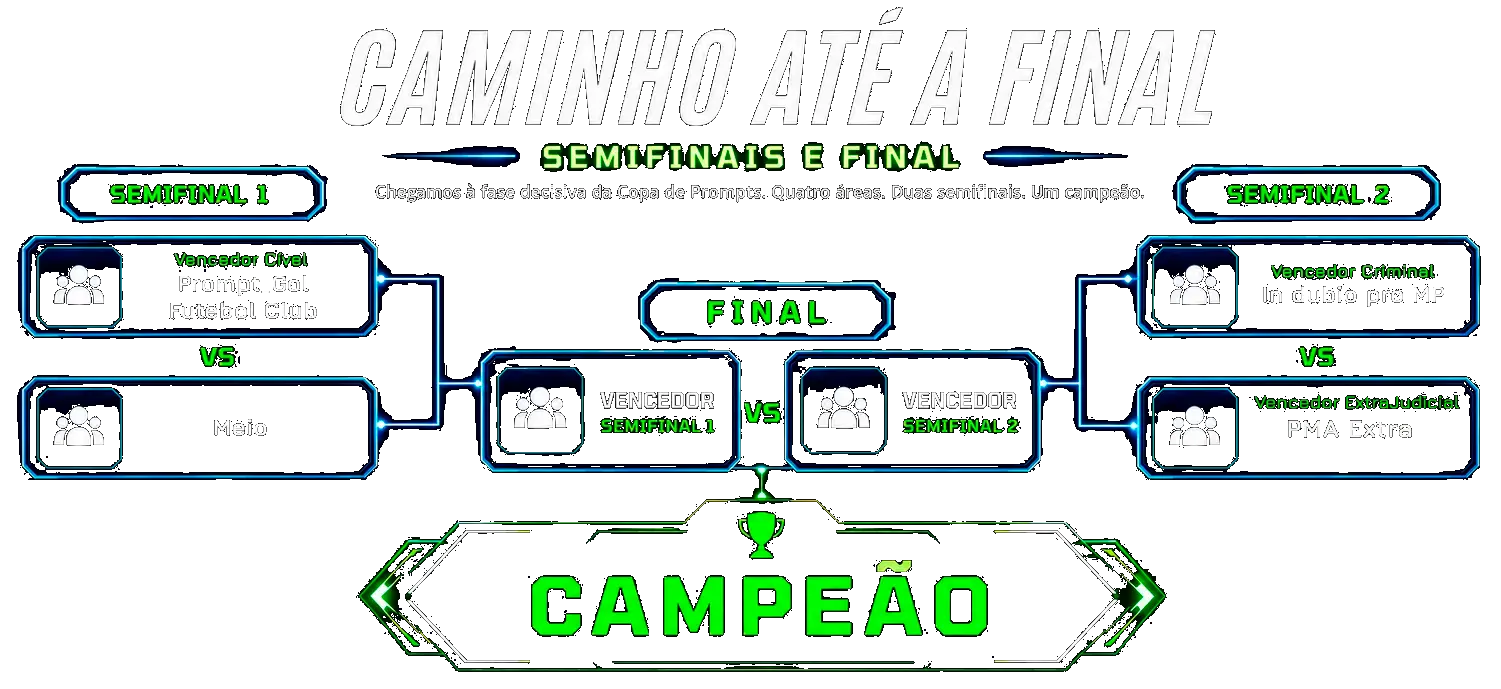
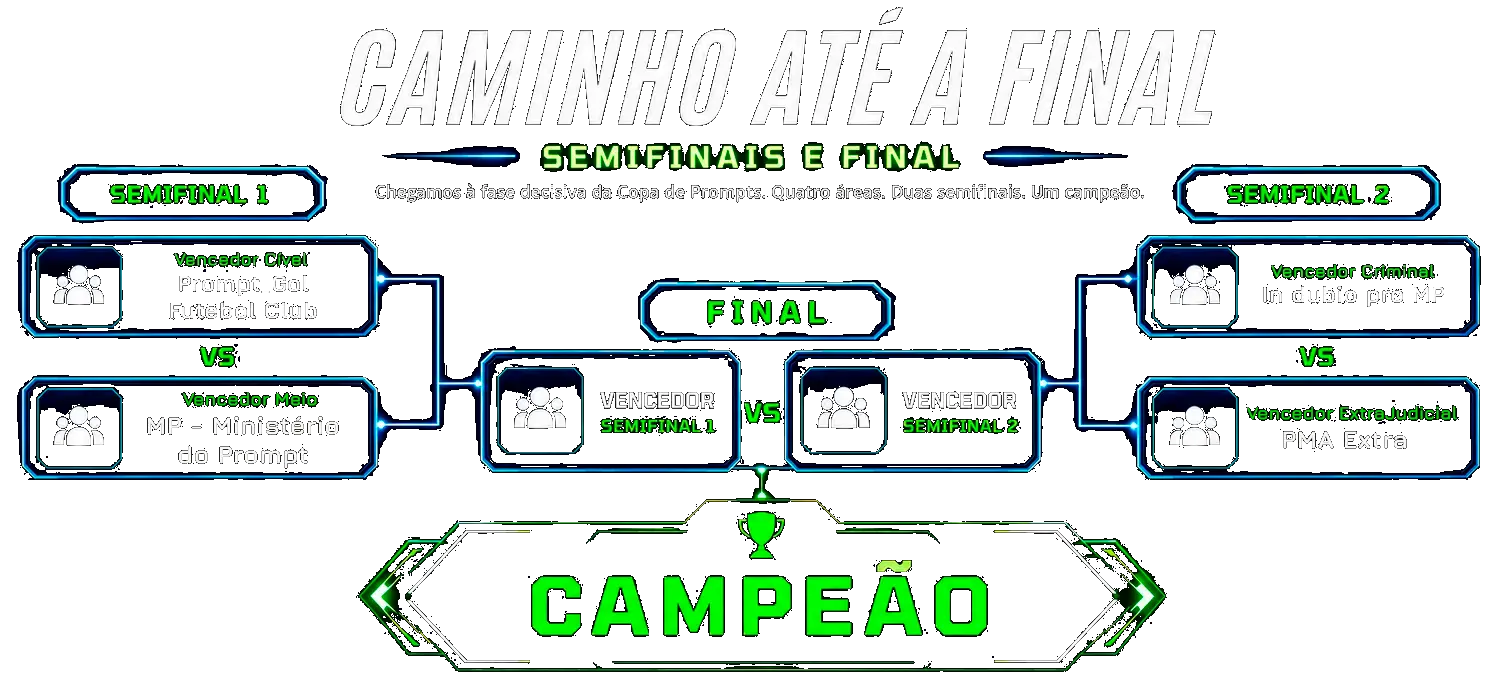
Atualiza grupo 5 e chaveamento

Changed region(s): [[0.0919, 0.5486, 0.2145, 0.6705], [0.8274, 0.5791, 0.9807, 0.6401]]

diff --git a/index.html b/index.html
@@ -289,11 +289,11 @@
                             </div>
                         </div>
                         <ul class="groups-team-list">
-                            <li>Dinamite 10 <span>4 jogadores</span></li>
+                            <li class="group-champion">MP - Ministério do Prompt <span>Campeões do grupo · 3 jogadores</span></li>
+                            <li class="group-runner-up">Mentes Sintéticas <span>2º lugar · 4 jogadores</span></li>
+                            <li class="group-third-place">Dinamite 10 <span>3º lugar · 4 jogadores</span></li>
                             <li>FiscAIs do Prompt <span>4 jogadores</span></li>
-                            <li>MP - Ministério do Prompt <span>3 jogadores</span></li>
                             <li>CyberPrompt <span>4 jogadores</span></li>
-                            <li>Mentes Sintéticas <span>4 jogadores</span></li>
                             <li>SeSumiuFoiProDAMP <span>4 jogadores</span></li>
                             <li>Liga da Justiça de Gênero <span>4 jogadores</span></li>
                             <li>Valkírias do Prompt <span>4 jogadores</span></li>
